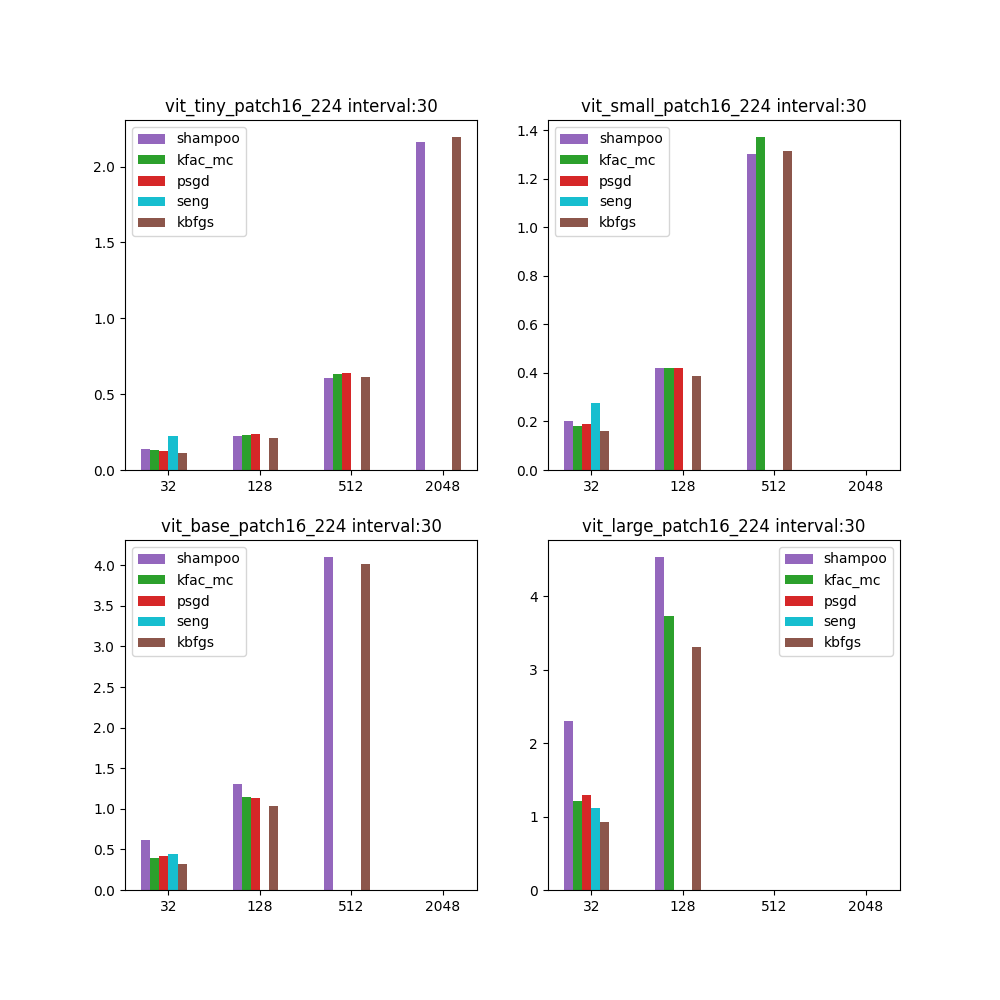
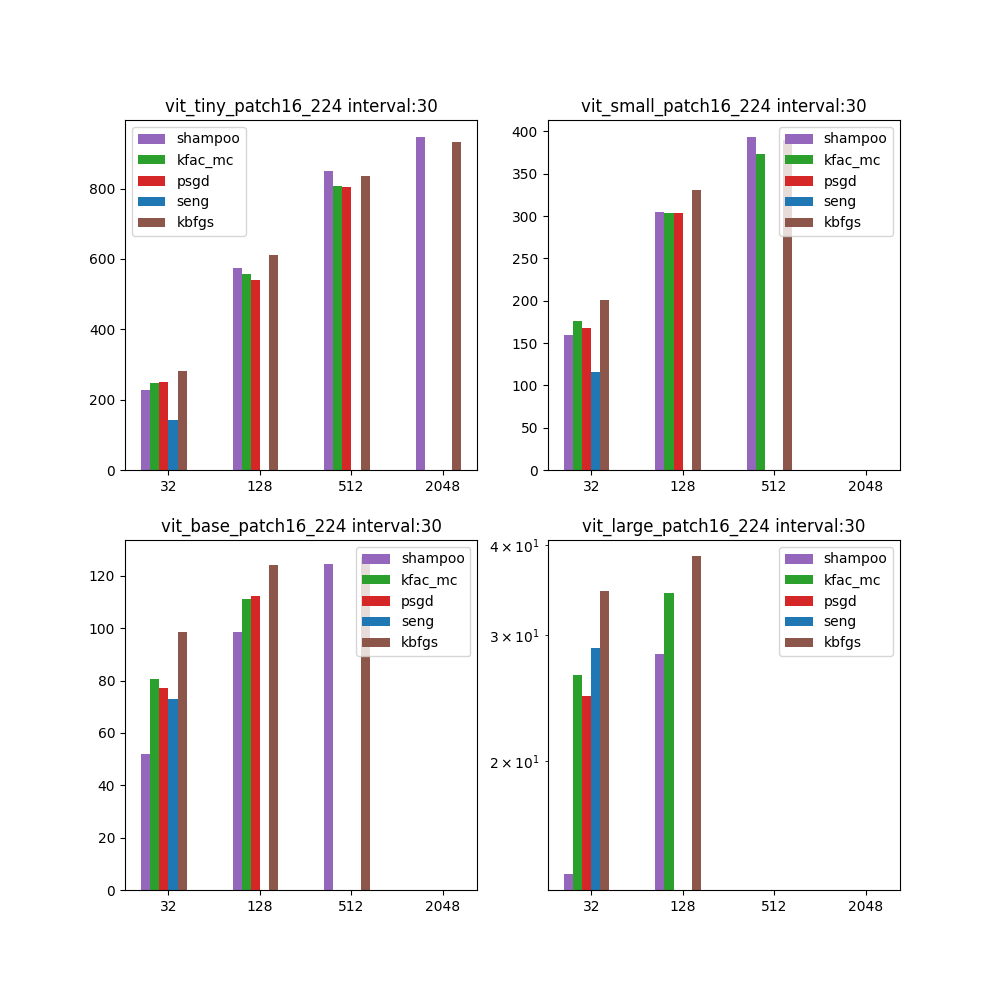
heat map

diff --git a/bs_interval.py b/bs_interval.py
@@ -1,0 +1,112 @@
+import wandb
+import matplotlib.pyplot as plt
+import seaborn as sns
+
+col = {'psgd':'r','kbfgs':'brown','kfac_mc':'green','seng':'cyan','shampoo':'purple'}
+lstyle = {32:'dashed',512:'solid'}
+api = wandb.Api()
+
+mlp_sweep_id_list=[
+    'f1if50ii',
+    'k82xdkdk',
+    'd5zvm08h',
+    'ib9hp9ad',
+    'daz5qb9t'
+]
+
+resnet_sweep_id_list=[
+    '0yt3f6fd',
+    '1lxkptqd',
+    '0ml9c9n5',
+    'nf77a1gi',
+    '80vdlfza',
+    'vtv9jhl2',
+    'd3jgb9ls',
+    'ao1zgb7m',
+    'kvyztw4q',
+    'sxtdbnwk'
+]
+
+vit_sweep_id_list=[
+    'qrql589u',
+    'u001u9on',
+    's72klmfo',
+    'im207a5p'
+]
+
+def make_dict(batchsize_list,interval_list):
+    acc_dic={}
+    for model in  model_list:
+        acc_dic[model] = {}
+        for optim in optim_list:
+            acc_dic[model][optim]={}
+            for bs in batchsize_list:
+                acc_dic[model][optim][bs]={}
+                for interval in interval_list:
+                    acc_dic[model][optim][bs][interval]=0
+    
+    return acc_dic
+
+def collect_runs(model):
+    if model == 'resnet18':
+        interval_list=[2,10,100]
+        batchsize_list = [32,128,512,2048]
+        id_list=resnet_sweep_id_list
+    if model == 'mlp':
+        interval_list=[1,10,100]
+        batchsize_list = [32,128,512,2048]
+        id_list=mlp_sweep_id_list
+    if model == 'vit_tiny_imagenet':
+        interval_list=[10,100]
+        batchsize_list = [32,128,512]
+        id_list=vit_sweep_id_list
+    acc_dic = make_dict(batchsize_list,interval_list)
+
+    for sweep_id in id_list:
+        sweep_name = 'riverstone/grad_maker/' + sweep_id
+        sweep = api.sweep(sweep_name)
+        runs = sweep.runs
+
+        for run in runs:
+            if run.config.get('model') == 'mlp' and run.config.get('width') != mlp_width:
+                continue
+            if run.config.get('model') == model and run.config.get('epochs') == epoch and run.config.get('interval') in interval_list and run.config.get('batch_size') in batchsize_list and run.config.get('optim') in optim_list:
+                if run.summary.get("cuda_max_memory") == -1 or type(run.summary.get("test_accuracy")) != float:
+                    test_acc=0
+                else:
+                    test_acc=run.summary.get("test_accuracy")
+
+                cur_acc = acc_dic[run.config.get('model')][run.config.get('optim')][run.config.get('batch_size')][run.config.get('interval')]
+                if test_acc > cur_acc:
+                    acc_dic[run.config.get('model')][run.config.get('optim')][run.config.get('batch_size')][run.config.get('interval')]=test_acc
+
+    return acc_dic
+
+if __name__=='__main__':
+    filename='./graph/lr_loss.png'
+    model_list = ['mlp','resnet18','vit_tiny_imagenet']
+    optim_list = ['shampoo','kfac_mc','psgd','seng','kbfgs']
+    mlp_width = 512
+    epoch = 20
+
+    fig, axes = plt.subplots(nrows=3, ncols=5, figsize=(25, 18))
+
+    for i in range(len(model_list)):
+        model = model_list[i]
+        acc_dict = collect_runs(model)
+        for j in range(len(optim_list)):
+            optim = optim_list[j]
+            batchsize_list = list(acc_dict[model][optim].keys())
+            list_2d=[]
+            for bs in batchsize_list:
+                list_2d.append(list(acc_dict[model][optim][bs].values()))
+            print(model,optim)
+            print(list_2d)
+            ilist = list(acc_dict[model][optim][bs].keys())
+            sns.heatmap(list_2d,ax=axes[i, j], annot=True, cmap='hot',xticklabels=ilist,yticklabels=batchsize_list,fmt= '.4g')
+            axes[i, j].set_title(optim)
+            axes[i, j].set_xlabel('interval')
+            axes[i, j].set_ylabel('batch size')
+
+    plt.savefig('graph/seaborn_heatmap_list.png', dpi=600)
+    plt.close('all')

diff --git a/timemem.py b/timemem.py
@@ -3,17 +3,18 @@ import matplotlib.pyplot as plt
 import numpy as np
 
 api = wandb.Api()
-interval=30
-model = 'mixer'
+interval=3
+model = 'resnet'
 optim_list = ['shampoo','kfac_mc','psgd','seng','kbfgs']
 batch_size_list = [32,128,512,2048]
-model_list = ['mixer_s16_224','mixer_b16_224','mixer_l16_224']
+
+#model_list = ['mixer_s16_224','mixer_b16_224','mixer_l16_224']
 #model_list=['vit_tiny_patch16_224','vit_small_patch16_224','vit_base_patch16_224','vit_large_patch16_224']
 #model_list=['wideresnet16','wideresnet28','wideresnet40']
-#model_list=['resnet18','resnet34','resnet50','resnet101']
+model_list=['resnet18','resnet34','resnet50','resnet101']
 
-memory_filename = './graph/mixer_memory.png'
-time_filename   = './graph/mixer_time.png'
+memory_filename = './graph/resnet_memory.png'
+time_filename   = './graph/resnet_time.png'
 
 sweep_dic={
     'resnet':'riverstone/optprofiler/hof6qhuy',
@@ -39,12 +40,12 @@ for model in model_list:
 for run in runs:
     if  run.config.get('interval') == interval and run.config.get('model') in model_list and run.config.get('batch_size') in batch_size_list:
         if run.summary.get("cuda_max_memory") == -1 or run.state!='finished' or type(run.summary.get("avg_step_time")) != float:
-            time=0
+            throughput=0
             mem=0
         else:
-            time=run.summary.get("avg_step_time")
+            throughput=run.config.get('batch_size')/run.summary.get("avg_step_time")
             mem=run.summary.get("cuda_max_memory")
-        time_batch[run.config.get('model')][run.config.get('optim')][run.config.get('batch_size')]=time
+        time_batch[run.config.get('model')][run.config.get('optim')][run.config.get('batch_size')]=throughput
         memory_batch[run.config.get('model')][run.config.get('optim')][run.config.get('batch_size')]=mem
 
 def make_graph(batch_list,filename):
@@ -71,8 +72,8 @@ def make_graph(batch_list,filename):
         ax_list[i].set_xticks([0.25,1.25,2.25,3.25]) 
         ax_list[i].set_xticklabels(batch_size_list)
         ax_list[i].set_title(model+' interval:'+str(interval))
+        ax_list[i].set_yscale('log')
     
-    plt.yscale('log')
     plt.savefig(filename)
 
 make_graph(memory_batch ,memory_filename)
